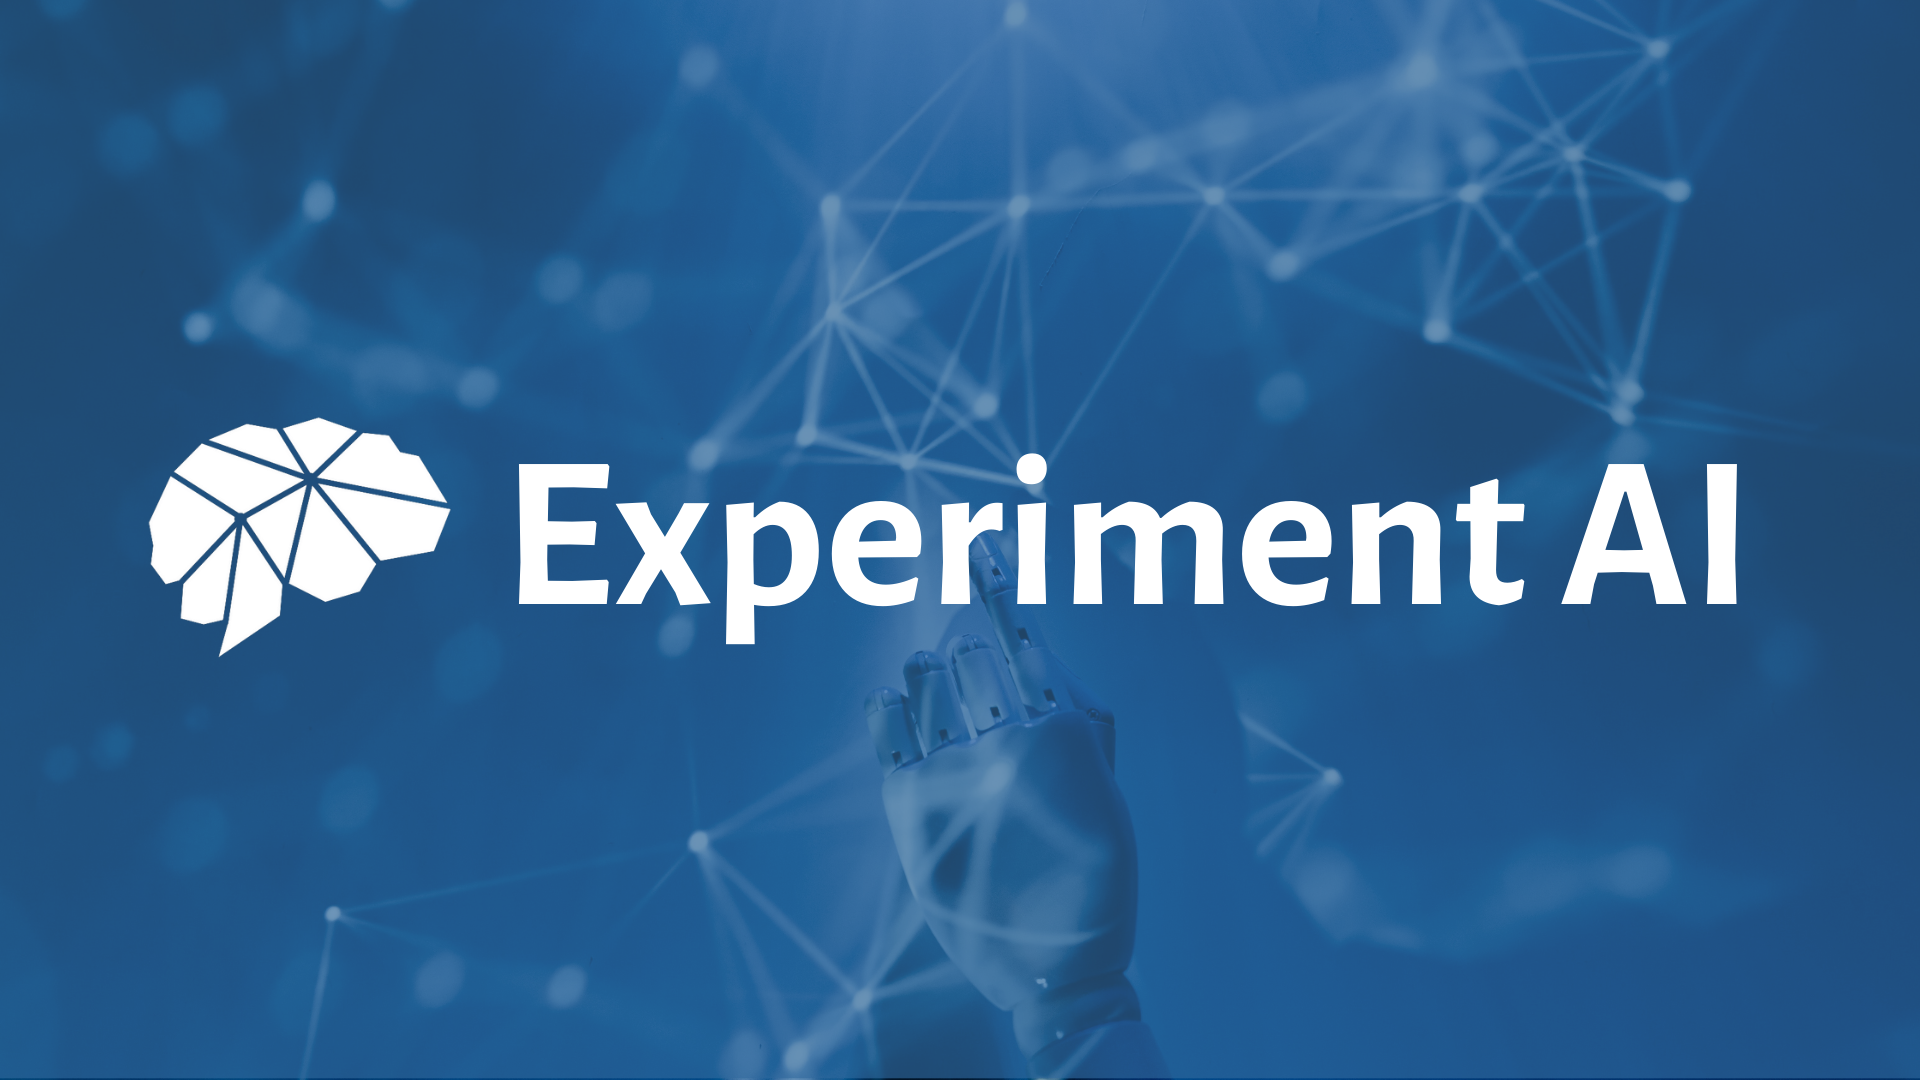
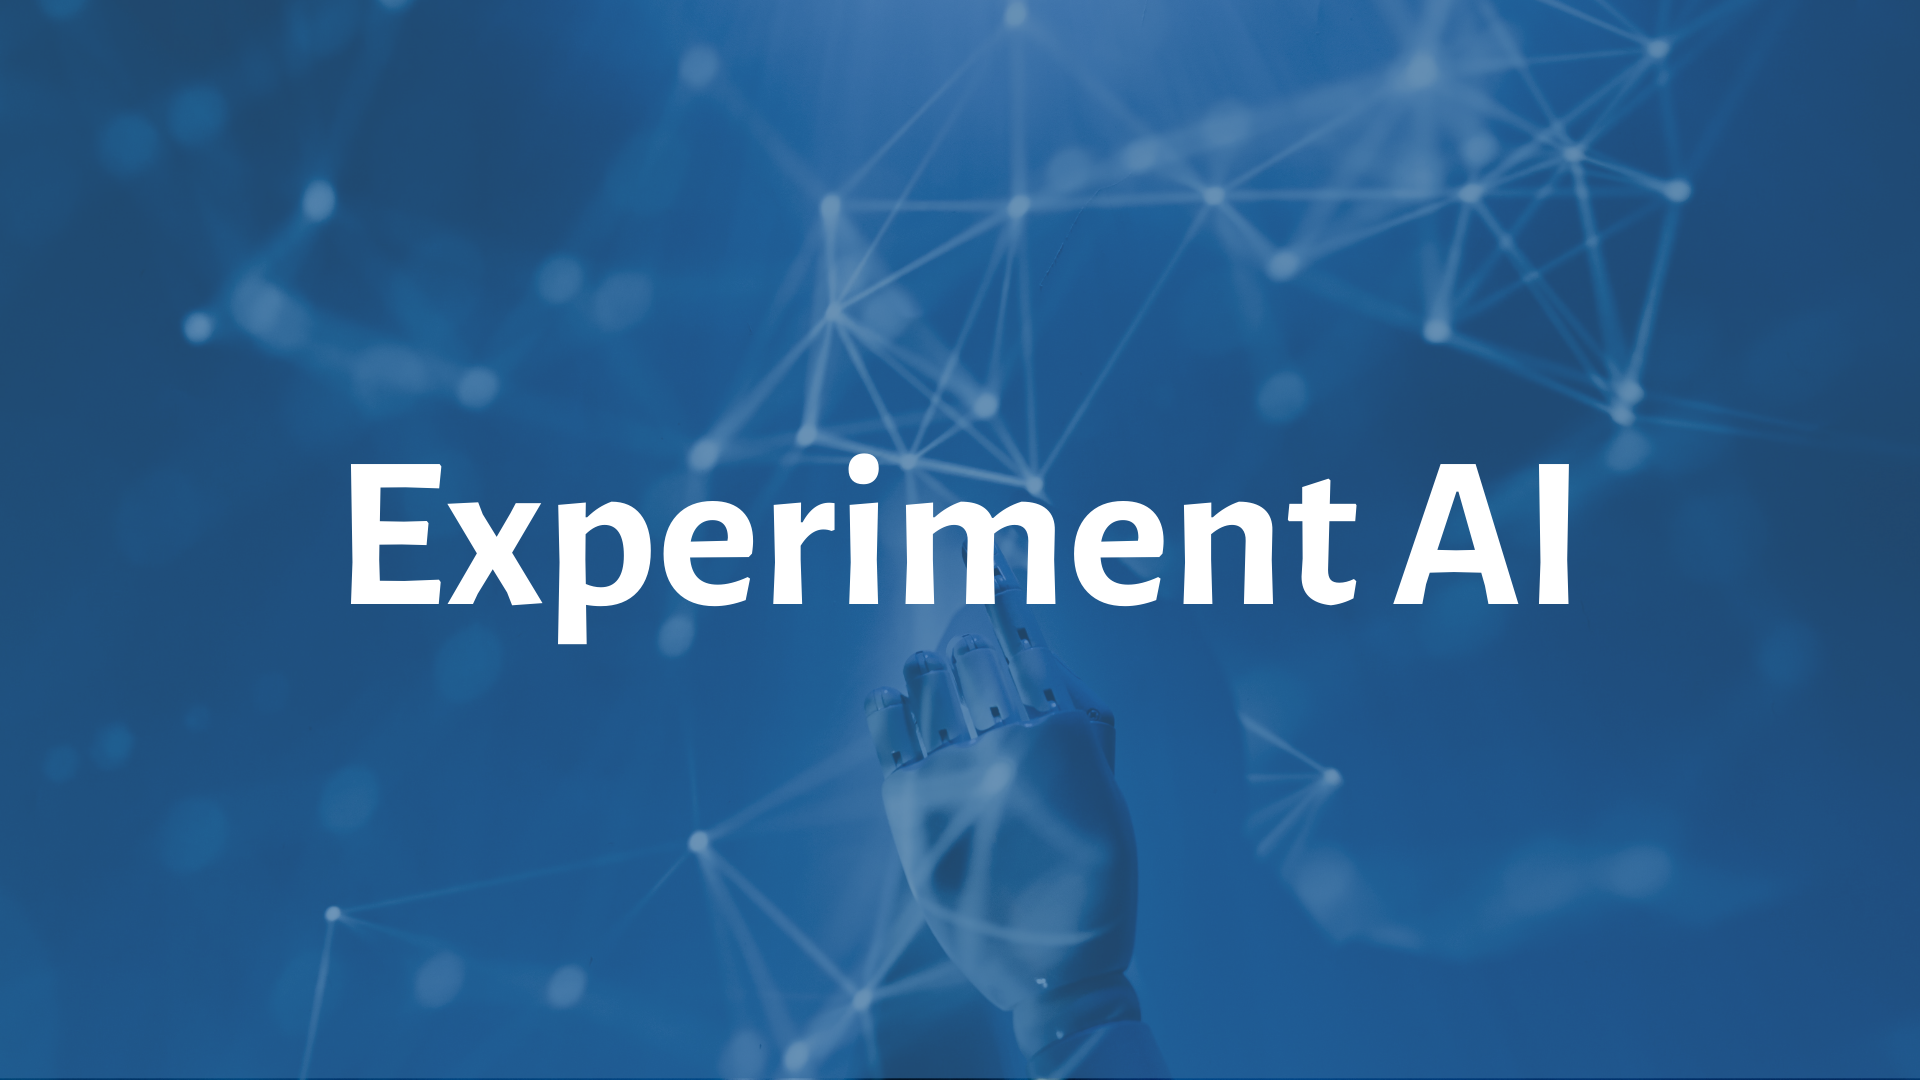
Fixed font size

Changed region(s): [[0.0625, 0.3667, 0.9062, 0.6111]]

diff --git a/src/App.css b/src/App.css
@@ -84,8 +84,8 @@ nav.navbar {
 }
 
 .logo img{
-  width: 80px;
-  height: 80px;  
+  width: 100px;
+  height: 100px;  
 }
 
 nav.navbar.scrolled {
@@ -107,7 +107,7 @@ nav.navbar .navbar-nav .nav-link.navbar-link {
   color: #000 !important;
   letter-spacing: 0.8px;
   padding: 0 25px;
-  font-size: 20px;
+  font-size: 25px;
   opacity: 0.75;
 }
 
@@ -138,7 +138,7 @@ span.navbar-text {
   transition: all 0.3s cubic-bezier(0.25, 0.8, 0.25, 1);
   overflow: hidden;
   height: 50px !important;
-  width: 200px;
+  width: 230px;
 
 }
 
@@ -187,7 +187,7 @@ span.navbar-text {
   transform: translateY(100%);
 }
 .card p{
-  font-size: 20px;
+  font-size: 25px;
   color: #212529;
   font-weight: 700;
   padding-top: 10px;
@@ -202,7 +202,7 @@ span.navbar-text {
   height: 100%;
   color: #000;
   padding: 18px 34px;
-  font-size: 20px;
+  font-size: 25px;
   font-weight: 700;
   opacity: 0.75;
   transition: opacity 0.25s;
@@ -277,7 +277,7 @@ span.navbar-text {
 }
 
 .social:hover {
-  transform: scale(1.1);
+  transform: scale(1.2);
 }
 .social-circle{
   width: 50px;
@@ -339,7 +339,7 @@ span.navbar-text {
 /************ Banner Css ************/
 .banner {
   margin-top: 0;
-  padding: 270px 0 0 0;
+  padding: 300px 0 0 0;
   background-image: linear-gradient(to bottom, rgba(245, 246, 252, 0.6), rgba(250,
     250,
     252, 1) ),url('./img/BG-White.jpg');
@@ -350,7 +350,7 @@ span.navbar-text {
 }
 
 .banner h1 {
-  font-size: 50px;
+  font-size: 60px;
   font-weight: 700;
   letter-spacing: 0.8px;
   line-height: 1;
@@ -361,7 +361,7 @@ span.navbar-text {
 
 .banner p {
   color: #7e7a7a;
-  font-size: 22px;
+  font-size: 25px;
   letter-spacing: 0.8px;
   line-height: 1.5em;
   width: 96%;
@@ -374,7 +374,7 @@ span.navbar-text {
 }
 .boxes {
   --size: 80px;
-  --duration: 800ms;
+  --duration: 1300ms;
   height: calc(var(--size) * 2);
   width: calc(var(--size) * 3);
   position: relative;
@@ -580,7 +580,7 @@ span.navbar-text {
 
 /************ Skills Css ************/
 .skill {
-  padding: 60px 0 50px 0;
+  padding: 130px 0 50px 0;
   height: 700px;
   background-color: #FAFAFC;
 }
@@ -599,7 +599,7 @@ span.navbar-text {
 }
 
 .skill h2 {
-  font-size: 40px;
+  font-size: 50px;
   font-weight: 700;
   padding: 0 0 15px;
 
@@ -613,7 +613,7 @@ span.navbar-text {
   margin: 14px 0 75px 0;
   padding-right: 40px;
   padding-left: 40px;
-  font-size: 20px;
+  font-size: 25px;
 }
 
 .skill-slider {
@@ -649,12 +649,12 @@ span.navbar-text {
   text-align: center;
   background-color: #FAFAFC;
   padding-bottom: 130px;
-  padding-top: 40px;
+  padding-top: 120px;
 }
 
 
 .project h2 {
-  font-size: 40px;
+  font-size: 50px;
   font-weight: 700;
   text-align: center;
   padding: 30px 0 8px;
@@ -668,7 +668,7 @@ span.navbar-text {
   margin: 14px 0 75px 0;
   padding-right: 40px;
   padding-left: 40px;
-  font-size: 20px;
+  font-size: 25px;
 }
 
 .proj-imgbx {
@@ -720,7 +720,7 @@ span.navbar-text {
 
 .proj-txtx span {
   font-weight: 600;
-  font-size: 18px;
+  font-size: 20px;
   letter-spacing: 0.8px;
 
 }
@@ -742,7 +742,7 @@ span.navbar-text {
   background-color: transparent;
   border-color: var(--primary);
   margin: 0 auto;
-  font-size: 18px;
+  font-size: 20px;
   padding: 1.2rem;
   font-weight: 700;
   border-width: 4px;
@@ -772,13 +772,11 @@ span.navbar-text {
  justify-content:space-evenly;
  align-items: center;
  flex-direction: column;
- 
-
 }
 
 .slogan {
   font-weight: 600;
-  font-size: 22px;
+  font-size: 25px;
   color: #fff;
   letter-spacing: 0.5px;
   margin-top: 20px;
@@ -788,10 +786,10 @@ span.navbar-text {
 
 .footer .details{
   font-weight: 400;
-  font-size: 18px;
+  font-size: 20px;
   color: #fff;
   letter-spacing: 0.5px;
-  margin-bottom: 5px !important;
+  margin-bottom: 7px !important;
 }
 
 .social-container{
@@ -858,8 +856,11 @@ span.navbar-text {
   
 }
 .skill{
-  padding-top: 180px;
+  padding-top: 300px;
 
+}
+.project{
+  padding-top: 250px;
 }
 }
 /*====TABLET=====*/
@@ -919,19 +920,19 @@ span.navbar-text {
   }
   .project .col .proj-imgbx {
     height: 250px;
-    width: 360px;
+    width: 390px;
     margin-bottom: 40px;
   }
   .proj-col {
     flex: 0 0 auto !important;
-    width: 58.33333333% !important;
+    width: 75% !important;
   }
   .proj-txtx span{
     padding: 0;
-    font-size: 16px;
+    font-size: 18px;
   }
   .btn-projects{
-    font-size: 16px;
+    font-size: 18px;
   }
   .slogan{
     font-size: 25px;
@@ -1014,8 +1015,6 @@ span.navbar-text {
   .proj-imgbx span{
     font-size: 20px;
   }
-  .proj-col{
-    margin-right: 80px;
-  }
+
 
 }

diff --git a/src/data.js b/src/data.js
@@ -46,7 +46,7 @@ export const dataDigitalBestSeller = [
 export const projectData = [
   {
     id: 1,
-    Url:'https://github.com/SahiraTejada/fitness.git',
+    Url:'https://github.com/SahiraTejada/fitnessbody.git',
     description:'Cater individuals seeking exercise guidance and equipment recommendations.',
     img: fitness,
 
